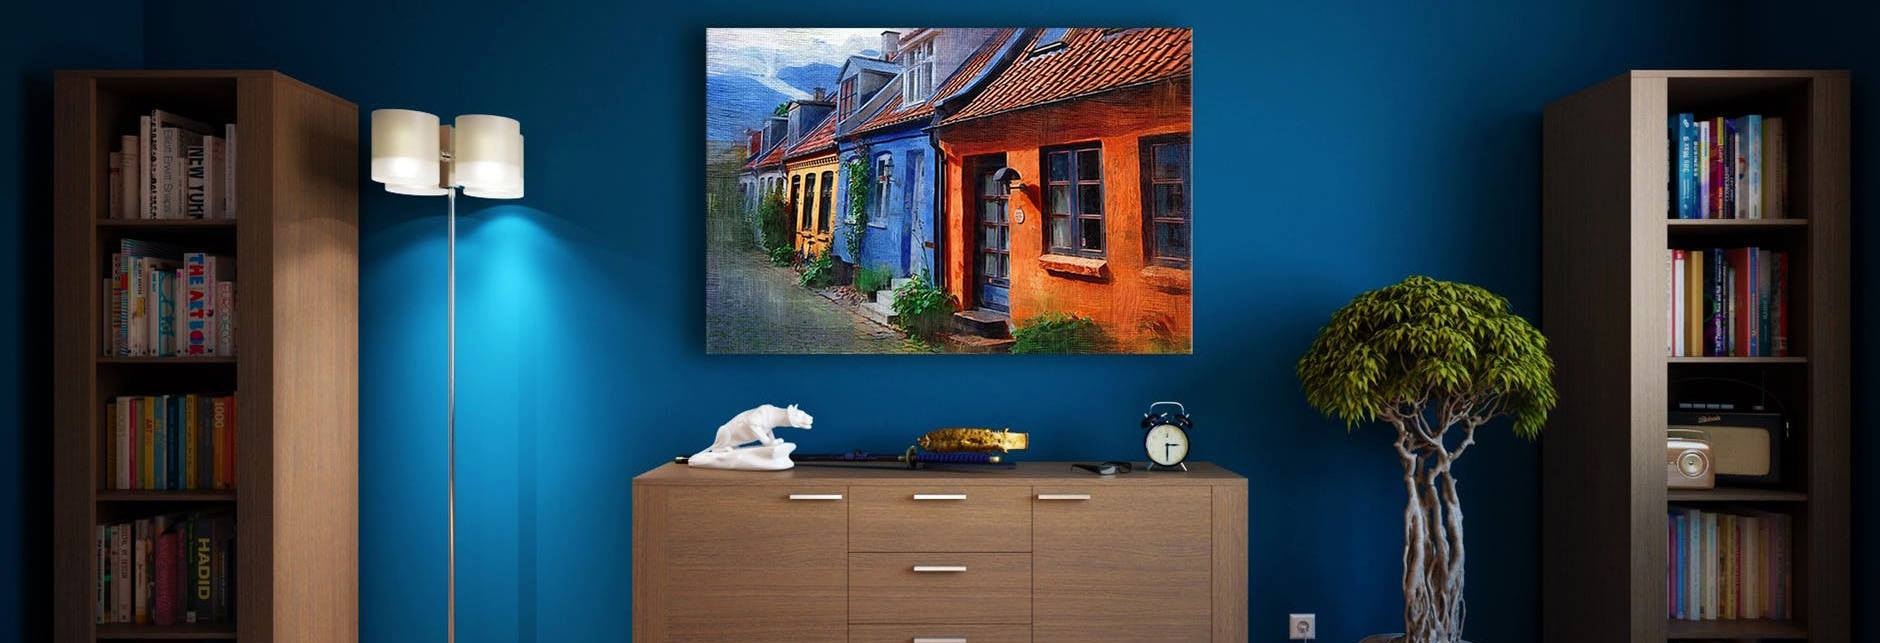
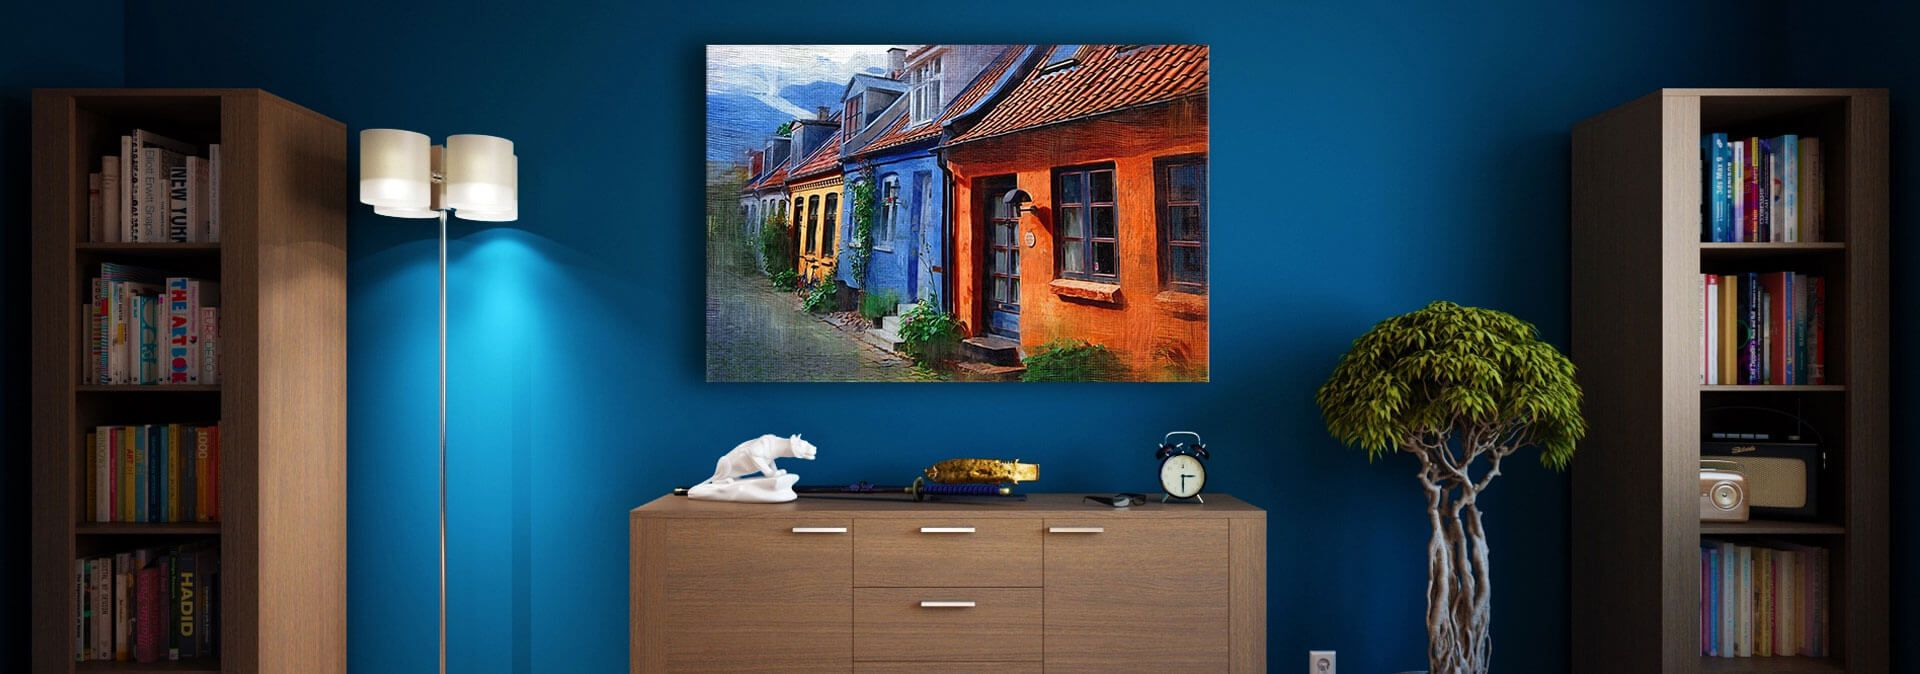
Centered content of top img

diff --git a/index.html b/index.html
@@ -3,17 +3,18 @@
   <head>
     <meta charset="utf-8">
     <meta name="viewport" content="width=device-width, initial-scale=1.0" >
-    <link href="style.css" rel="stylesheet" type="text/css">
+    <link href="https://fonts.googleapis.com/css?family=Open+Sans|Playfair+Display" rel="stylesheet">
+    <link href="css/style.css" rel="stylesheet" type="text/css">
     <title>ROOM8 | Forside</title>
   </head>
   <body>
 
     <main>
-      <section> <!--Øverste billede på forsiden-->
+      <section class="fullwidth"> <!--Øverste billede på forsiden-->
         <img src="img/fpwide.jpg" alt="Stue med blå væg">
-        <a href="inspiration.html">
         <h2 class= "landingimgtxt">Møbler udvalgt til et moderne hjem</h2>
-        <button type="imgbut" name="">Bliv inspireret</button>
+        <a href="inspiration.html">
+          <button type="imgbut">Bliv inspireret</button>
         </a>
       </section>
 

diff --git a/css/style.css b/css/style.css
@@ -1,0 +1,21 @@
+*{
+  box-sizing: border-box;
+}
+
+.fullwidth {
+  text-align: center;
+}
+
+.fullwidth img, h2, button{
+  max-width: 100%;
+  font-family: 'Playfair Display', serif;
+}
+
+.fullwidth img{
+  text-align: center;
+  align-content: center;
+}
+
+.fullwidth button {
+  font-family: 'Open Sans', sans-serif;
+}
